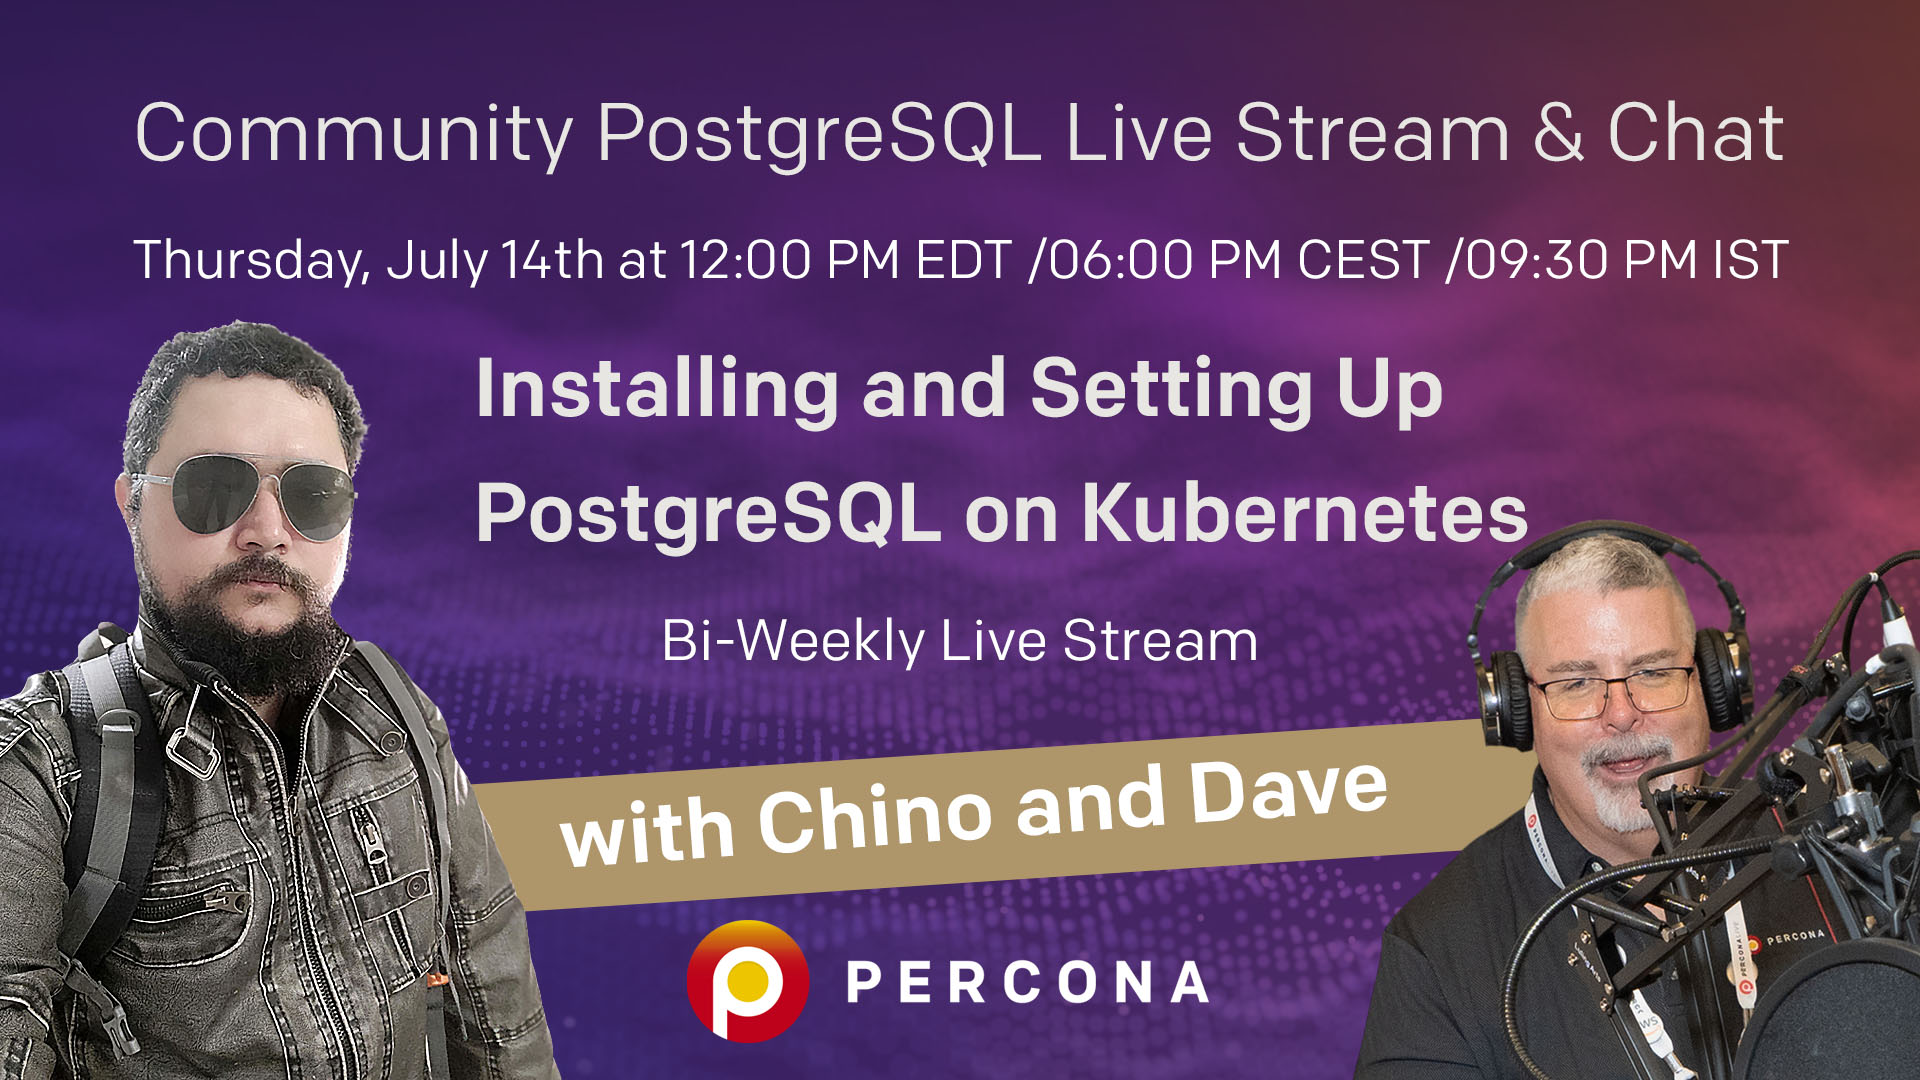
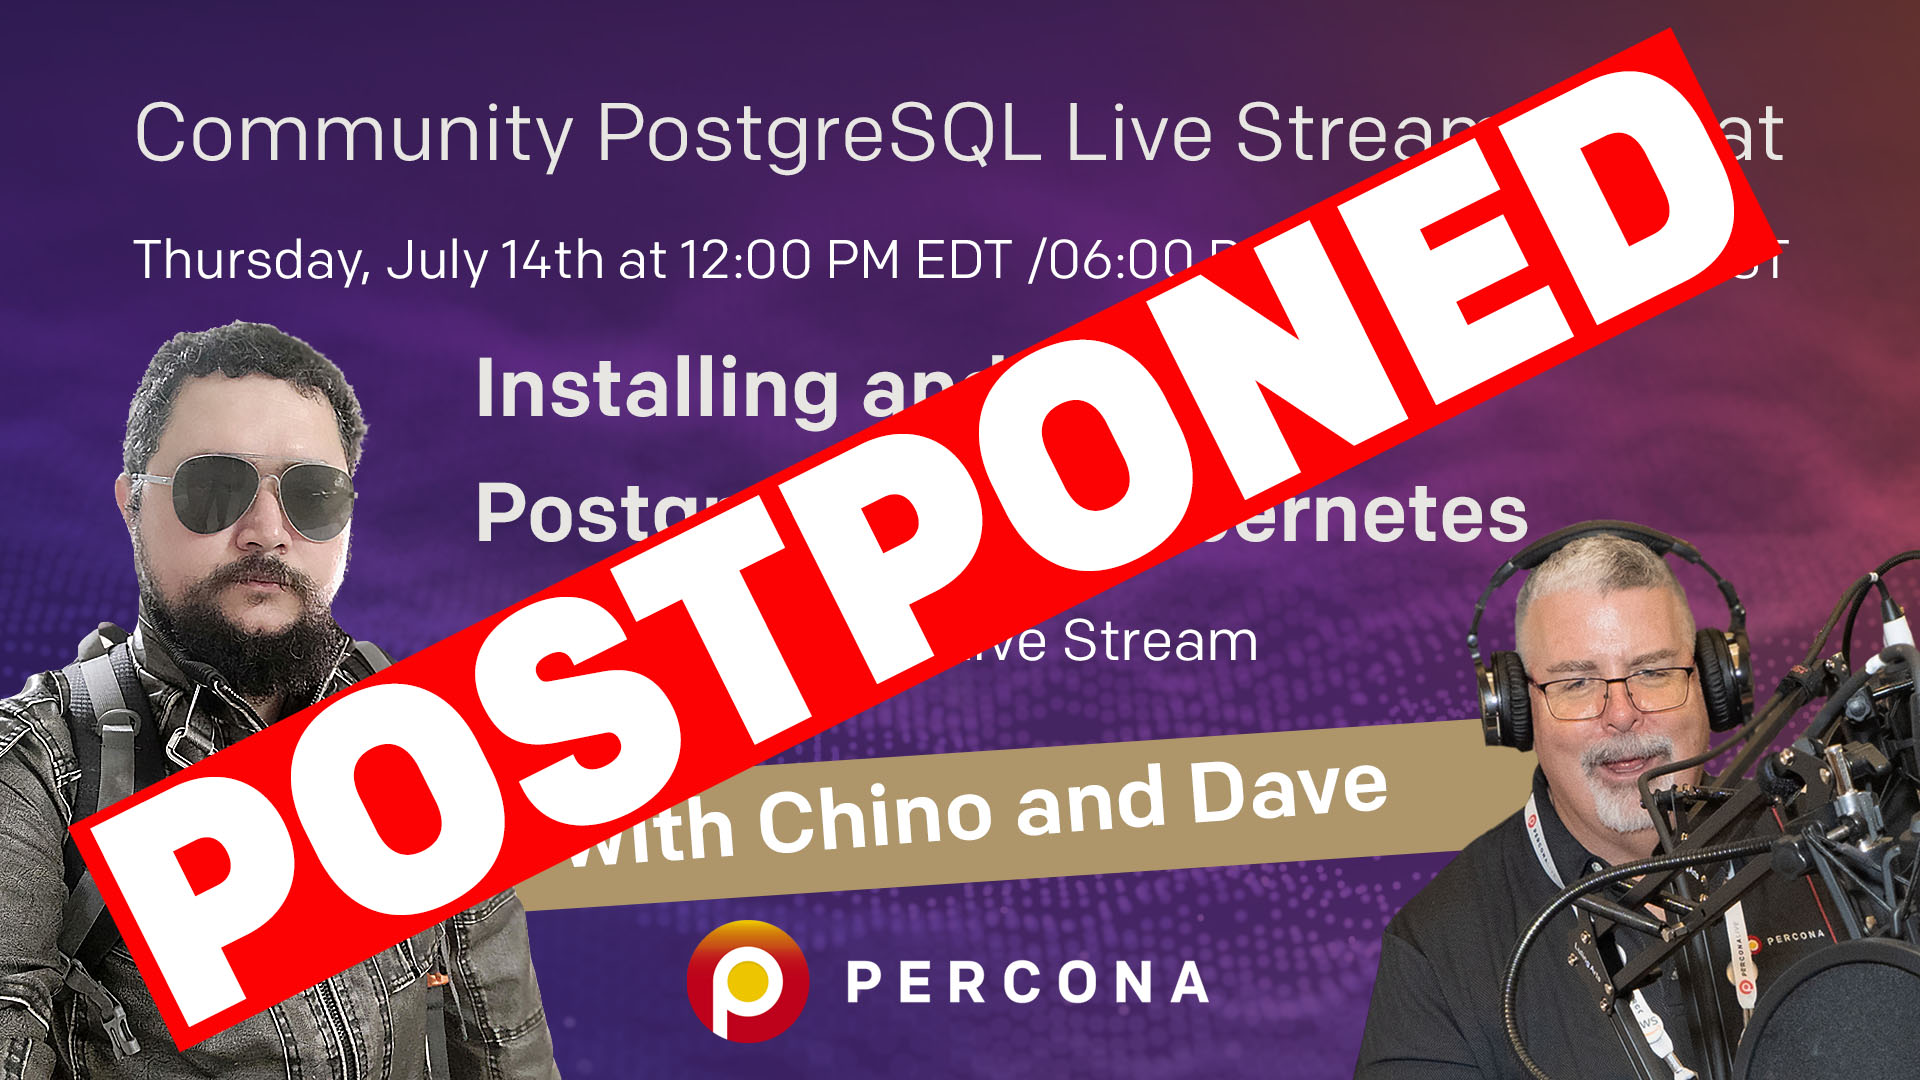
postpone pg stream july 14

Changed region(s): [[0.0312, 0.0306, 0.9375, 0.9778]]

diff --git a/content/events/streams-pg/_index.md b/content/events/streams-pg/_index.md
@@ -31,21 +31,21 @@ Matt and Charly will cover the following topics every two weeks on Thursday, at 
 * June 3rd - [Setting up failover via a replica for PostgreSQL](/events/streams-pg/2022-06-03-setting-up-failover-via-a-replica-for-postgresql/)
 * June 16th - [Setting Up and Using Patroni to Automate Failover in PostgreSQL](/events/streams-pg/2022-06-16-setting-up-and-using-patroni-to-automate-failover-in-postgresql)
 * June 30th - [Migrating PostgreSQL to a new server](/events/streams-pg/2022-06-30-migrating-postgresql-to-a-new-server/)
-* July 14th - [Installing and Setting Up PostgreSQL on Kubernetes](/events/streams-pg/2022-07-14-installing-and-setting-up-postgresql-on-kubernetes/)
-* July 28th - PostgreSQL running on Kubernetes operations
-* August 11th - Exploring the scalability limits of PostgreSQL on Kubernetes
-* August 25th - Designing a schema
-* September 8th - How to benchmark your PostgreSQL database
-* September 22nd - How to secure PostgreSQL
-* October 6th - Setting up a PostgreSQL connection pool
-* October 20th - Using PG and Redis to boost Performance
-* November 3d - Finding poorly designed schema’s and how to fix them
-* November 17th - Archiving PG data
-* December 1st - Auditing PostgreSQL
-* December 15th - Setting up and Optimizing PG Aurora
-* December 29th - Replicating PostgreSQL cross-cloud
-* January 12th - Cross K8 cluster PG replication
-* January 26th - Kubernetes for DBA’s
+* July 28th - [Installing and Setting Up PostgreSQL on Kubernetes](/events/streams-pg/2022-07-28-installing-and-setting-up-postgresql-on-kubernetes/)
+* August 11th - PostgreSQL running on Kubernetes operations
+* August 25th - Exploring the scalability limits of PostgreSQL on Kubernetes
+* September 8th - Designing a schema
+* September 22nd - How to benchmark your PostgreSQL database
+* October 6th - How to secure PostgreSQL
+* October 20th - Setting up a PostgreSQL connection pool
+* November 3rd - Using PG and Redis to boost Performance
+* November 17th - Finding poorly designed schema’s and how to fix them
+* December 1st - Archiving PG data
+* December 15th - Auditing PostgreSQL
+* December 29th - Setting up and Optimizing PG Aurora
+* January 12th - Replicating PostgreSQL cross-cloud
+* January 26th - Cross K8 cluster PG replication
+* February 9th - Kubernetes for DBA’s
 
 ## Follow Us
 

diff --git a/content/events/streams-pg/2022-07-28-installing-and-setting-up-postgresql-on-kubernetes.md b/content/events/streams-pg/2022-07-28-installing-and-setting-up-postgresql-on-kubernetes.md
@@ -1,0 +1,33 @@
+---
+title: "Installing and Setting Up PostgreSQL on Kubernetes - Percona Community PostgreSQL Live Stream & Chat - July, 28th"
+description: "Join Percona Community Live Stream and learn more about Installing and Setting Up PostgreSQL on Kubernetes on Thursday, July 28th at 12:00 PM EDT / 06:00 PM CEST / 09:30 PM IST"
+draft: false
+images:
+  - events/streams-pg/pg-stream-cover-week-10-july-28.jpg
+speakers:
+  - charly_batista
+  - dave_stokes
+weight: 1
+tags: ['Postgres', 'Stream']
+---
+
+![Percona Community PostgreSQL Live Stream & Chat - July 28th](events/streams-pg/pg-stream-cover-week-10-july-28.jpg)
+
+Learn more about Installing and Setting Up PostgreSQL on Kubernetes with experts. This is a part of Percona Community's bi-weekly  Live Stream. Dave and Charly will share their experience and run a demo session. Come up with all your questions and get an answer right away.
+
+## Topic
+Thursday, July 28th at 12:00 PM EDT / 06:00 PM CEST / 09:30 PM IST
+**“Installing and Setting Up PostgreSQL on Kubernetes” with Dave Stokes and Charly Batista.**
+
+## Join & Chat for free!!
+Watch it live on [YouTube](https://www.youtube.com/watch?v=vO5pHTRONJQ), [Linkedin](https://www.linkedin.com/video/event/urn:li:ugcPost:6953014407266242560/), and [Twitch](https://www.linkedin.com/video/event/urn:li:ugcPost:6952248159553167360/).
+Live chat on [Discord](http://per.co.na/discord)
+Add this event to your [Google Calendar](https://calendar.google.com/event?action=TEMPLATE&tmeid=a251OWMxdmY2cnNxdnUxOGExc2x2aTJhbXFfMjAyMjA3MjhUMTYwMDAwWiBmcmVkZWwubWFtaW5kcmFAcGVyY29uYS5jb20&tmsrc=fredel.mamindra%40percona.com).
+Follow us on [Twitter](https://twitter.com/PerconaBytes) and get informed of all upcoming meetups
+
+## Tell us about this meeting.
+Any comments, feedback, and suggestions are welcome to help us improve upcoming events:
+What DID you like?
+What DIDN’T you like? (Be honest!)
+What do you want to see next time?
+

diff --git a/content/events/streams-pg/2022-07-14-installing-and-setting-up-postgresql-on-kubernetes.md b/content/events/streams-pg/2022-07-14-installing-and-setting-up-postgresql-on-kubernetes.md
@@ -1,5 +1,5 @@
 ---
-title: "Installing and Setting Up PostgreSQL on Kubernetes - Percona Community PostgreSQL Live Stream & Chat - July, 14th"
+title: "Installing and Setting Up PostgreSQL on Kubernetes - Percona Community PostgreSQL Live Stream & Chat"
 description: "Join Percona Community Live Stream and learn more about Installing and Setting Up PostgreSQL on Kubernetes on Thursday, July 14th at 12:00 PM EDT / 06:00 PM CEST / 09:30 PM IST"
 draft: false
 images:
@@ -7,11 +7,19 @@ images:
 speakers:
   - charly_batista
   - dave_stokes
-weight: 1
 tags: ['Postgres', 'Stream']
 ---
 
+Hello,
 
+Thank you for your visit! This event is postponed
+Follow us on [Twitter](https://twitter.com/PerconaBytes) and get informed of the new date
+Thank You
+
+Percona Community Team
+
+
+```
 ![Percona Community PostgreSQL Live Stream & Chat - July 14th](events/streams-pg/pg-stream-cover-week-10-july-14.jpg)
 
 Learn more about Installing and Setting Up PostgreSQL on Kubernetes with experts. This is a part of Percona Community's bi-weekly  Live Stream. Dave and Charly will share their experience and run a demo session. Come up with all your questions and get an answer right away.
@@ -31,4 +39,4 @@ Any comments, feedback, and suggestions are welcome to help us improve upcoming 
 What DID you like?
 What DIDN’T you like? (Be honest!)
 What do you want to see next time?
-
+```
